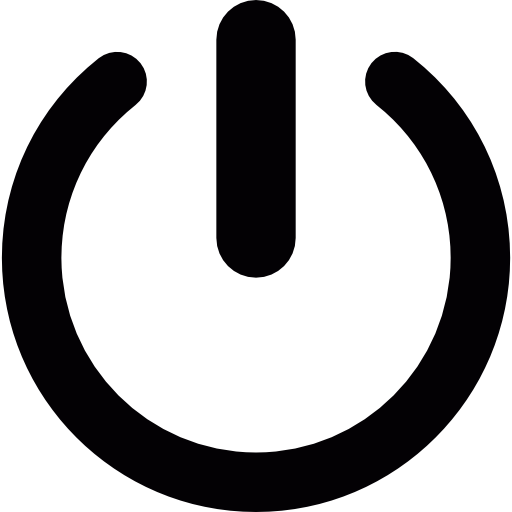
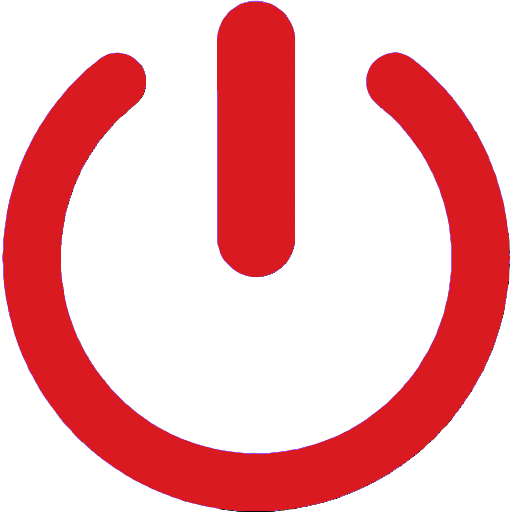
README Images, Bug Fixes, and Minor UI Update

diff --git a/Bookmark.py b/Bookmark.py
@@ -13,6 +13,9 @@ from PIL import Image, ImageEnhance, ImageDraw
 from Book_Scouter import get_book_details
 from Book_Data import longest_completed, track_book, read_data, get_total_pages, total_stats
 
+# Executable Compilation Code
+# pyinstaller --onefile --windowed --icon="Data/Images/Planned.png" Bookmark.py
+
 # Ignores DPI scaling to work in Full Screen for all Systems
 ctk.deactivate_automatic_dpi_awareness()
 
@@ -28,6 +31,9 @@ else:
     application_path = os.path.dirname(os.path.abspath(__file__))
 
 data_loc = os.path.join(application_path, "Data")
+
+# Store most recent Output (if exists), including Exceptions during Application Runtime or Crash
+sys.stdout = open(os.path.join(data_loc, "logs.txt"), "w+")
 
 # Create Accounts Folder if doesn't exist
 os.makedirs(os.path.join(data_loc, "Accounts"), exist_ok=True)
@@ -518,8 +524,6 @@ def book_collection(user):
 
                 prev_widget = btn
 
-            win.update()
-
         else:
 
             filter_search.place_forget()
@@ -595,18 +599,32 @@ def book_collection(user):
 
                 info = ctk.CTkLabel(tabs.tab(category), text="No Completed Books Yet", font=("Helvetica", h/18, "bold"), text_color="#818181")
                 info.place(relx=0.5, rely=0.77, relwidth=0.958, relheight=0.145, anchor=ctk.CENTER)
+            
+        win.update()
 
     # Change Page
-    def page_change(change_qty):
+    def page_change(change_qty=0, reset=False, search_term=None):
+        
         category = tabs.get()
 
-        page_var = page_counters[category]
-        new_page_count = int(page_var.get()) + change_qty
+        # Try since the page_change function is called intially when page_counters is undefined, so skipped in first function call.
+        try:
+            page_var = page_counters[category]
 
-        if not ((new_page_count == 0) or (new_page_count > int(total_pages[category].get()))):
-            page_var.set(new_page_count)
+            if reset:
+                page_var.set(1)
 
-        update_tab([tabs, add_btn, logout_btn])
+            else:
+                update_tab([tabs, add_btn, logout_btn], search_term=search_term)
+
+                new_page_count = int(page_var.get()) + change_qty
+
+                if new_page_count in range(1, int(total_pages[category].get())+1):
+                    page_var.set(new_page_count)
+
+            update_tab([tabs, add_btn, logout_btn], search_term=search_term)
+        except:
+            pass
 
     # Create Tabular View
     tabs = ctk.CTkTabview(main_frame,
@@ -633,13 +651,25 @@ def book_collection(user):
 
     all_tabs = ["Plan To Read", "Reading", "Completed", "On Hold", "Dropped"]
 
+    # String Variable that keeps track of the Text in the Search Bar
+    search_term = ctk.StringVar()
+    search_term.trace_add('write', lambda var, index, mode: page_change(reset=True, search_term=search_term))
+
+    # Search Bar to Filter Books through Keywords
+    filter_search = ctk.CTkEntry(main_frame, text_color="#818181", fg_color="#1f1f1f", font=("Helvetica", h/42, "bold"), textvariable=search_term)
+    filter_search.place(relx=0.5, rely=0.11, relwidth=0.45, relheight=0.06, anchor=ctk.CENTER)
+
+    # Custom Placeholder Text Method as in-built doesn't work
+    search_term.set("Enter Name or ISBN No. of the Book...")
+    filter_search.bind("<FocusIn>", lambda event: [filter_search.configure(text_color="#FFFFFF"), search_term.set("")])
+
     # Setting Up default Page Count and Total Pages for each tab
     page_counters = {tab_name:ctk.StringVar(value="1") for tab_name in all_tabs}
     total_pages = {tab_name:ctk.StringVar(value="1") for tab_name in all_tabs}
 
     # Add Previous/Next Buttons and Page Counter
     for tab in all_tabs:
-        previous_button = ctk.CTkButton(tabs.tab(tab), text="◀", fg_color="#9a4cfa", bg_color="#1f1f1f", hover_color="#b87bff", font=("Helvetica", h/36, "bold"), text_color="#121212", command=lambda: page_change(-1))
+        previous_button = ctk.CTkButton(tabs.tab(tab), text="◀", fg_color="#9a4cfa", bg_color="#1f1f1f", hover_color="#b87bff", font=("Helvetica", h/36, "bold"), text_color="#121212", command=lambda: page_change(-1, search_term=search_term))
         previous_button.place(relx=0.424, rely=0.942, relwidth=0.02)
 
         page_text_info = ctk.CTkLabel(tabs.tab(tab), text="Page          of ", font=("Helvetica", h/50), text_color="#9a4cfa")
@@ -651,19 +681,11 @@ def book_collection(user):
         total_pages_counter = ctk.CTkLabel(tabs.tab(tab), textvariable=total_pages[tab], font=("Helvetica", h/50), text_color="#9a4cfa")
         total_pages_counter.place(in_=page_text_info, relx=1, rely=0, relwidth=0.4, relheight=1)
 
-        next_button = ctk.CTkButton(tabs.tab(tab), text="▶", fg_color="#9a4cfa", bg_color="#1f1f1f", hover_color="#b87bff", font=("Helvetica", h/36, "bold"), text_color="#121212", command=lambda: page_change(1))
+        next_button = ctk.CTkButton(tabs.tab(tab), text="▶", fg_color="#9a4cfa", bg_color="#1f1f1f", hover_color="#b87bff", font=("Helvetica", h/36, "bold"), text_color="#121212", command=lambda : page_change(1, search_term=search_term))
         next_button.place(in_=previous_button, relx=7.65, rely=0, relwidth=1, relheight=1)
 
     # Set Default Tab to Reading
     tabs.set("Reading")
-
-    # String Variable that keeps track of the Text in the Search Bar
-    search_term = ctk.StringVar()
-    search_term.trace_add('write', lambda var, index, mode: update_tab([tabs, add_btn, logout_btn], search_term=search_term))
-
-    # Search Bar to Filter Books through Keywords
-    filter_search = ctk.CTkEntry(main_frame, text_color="#818181", fg_color="#1f1f1f", font=("Helvetica", h/42, "bold"), textvariable=search_term)
-    filter_search.place(relx=0.5, rely=0.11, relwidth=0.45, relheight=0.06, anchor=ctk.CENTER)
 
     # Reset Search Bar and open Search Menu
     def add_book_initiator():
@@ -722,15 +744,13 @@ def book_collection(user):
     add_btn.place(relx=0.91, rely=0.895)
 
     # Log Out Button
-    logout_btn = ctk.CTkButton(main_frame, text="", text_color="#121212", fg_color="#1f1f1f", bg_color="#1f1f1f", hover_color="#2f2f2f", font=("Helvetica", h/24, "bold"), image=ctk.CTkImage(dark_image=Image.open(os.path.join(data_loc, "Images", "Log Out.png")), size=(30,30)), width=0, height=15, command=lambda: logout([tabs, add_btn, logout_btn]))
-    logout_btn.place(relx=0.933, rely=0.045)
-
-    # Custom Placeholder Text Method as in-built doesn't work
-    search_term.set("Enter Name or ISBN No. of the Book...")
-    filter_search.bind("<FocusIn>", lambda event: [filter_search.configure(text_color="#FFFFFF"), search_term.set("")])
+    logout_img = Image.open(os.path.join(data_loc, "Images", "Log Out.png"))
+    logout_btn = ctk.CTkButton(main_frame, text="", text_color="#121212", fg_color="#1f1f1f", bg_color="#1f1f1f", hover_color="#2f2f2f", font=("Helvetica", h/24, "bold"), image=ctk.CTkImage(dark_image=logout_img, size=(30,30)), width=0, height=15, command=lambda: logout([tabs, add_btn, logout_btn]))
+    logout_btn.place(relx=0.935, rely=0.045)
 
     win.update()
 
+    # Update Tab to Display the Books on Page 1 of Reading Tab
     update_tab([tabs, add_btn, logout_btn])
 
 # Add/Remove Books

diff --git a/README.md b/README.md
@@ -18,7 +18,7 @@ Go to Releases on the Righ-Hand-Side and Download the Latest Version of the `.zi
 
 ## Usage/Examples
 
-Use the `Bookmark.py` to Run the Application
+Use the `Bookmark.exe` to Run the Application
 
 ### Sign Up
 
@@ -68,7 +68,7 @@ Once Logged In, whenever the Application is opened, it will open the last closed
 
 ![Logout Demo](https://github.com/KillerRebooted/Bookmark/blob/main/README%20Images/Logout%20Demo.png)
 
-To Logout, instead of pressing `Escape`, press the `Power Off` Icon in the top left and Press `Yes`. It will go back to the Login Page which can be closed using the `Escape` or the `Close` Button.
+To Logout, instead of pressing `Escape`, press the Red `Power Off` Icon in the top left and Press `Yes`. It will go back to the Login Page which can be closed using the `Escape` or the `Close` Button.
 
 ## Book API
 
